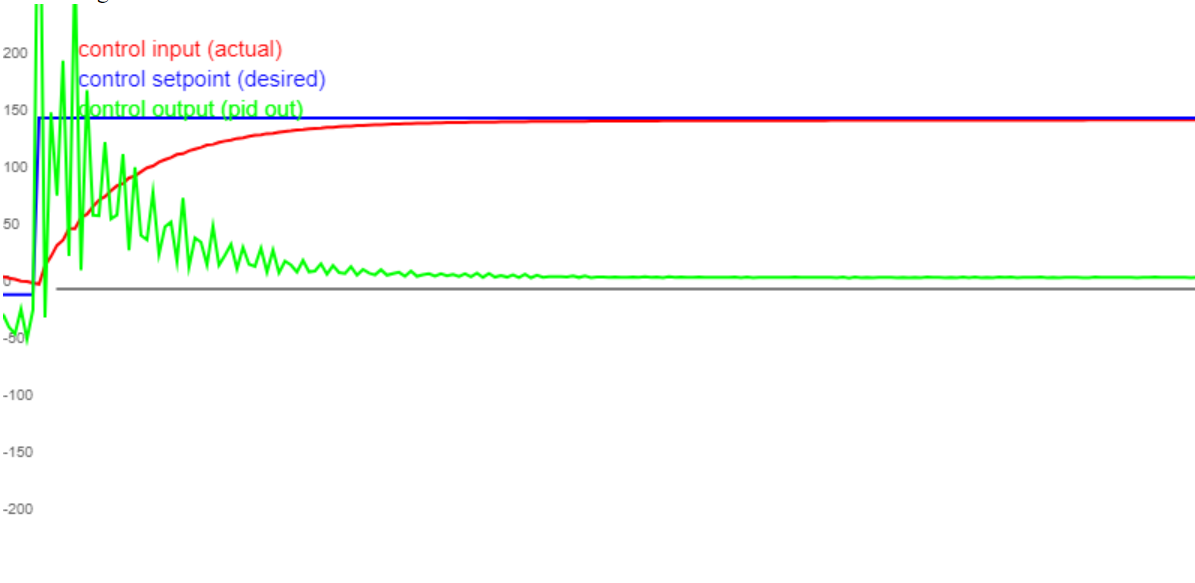
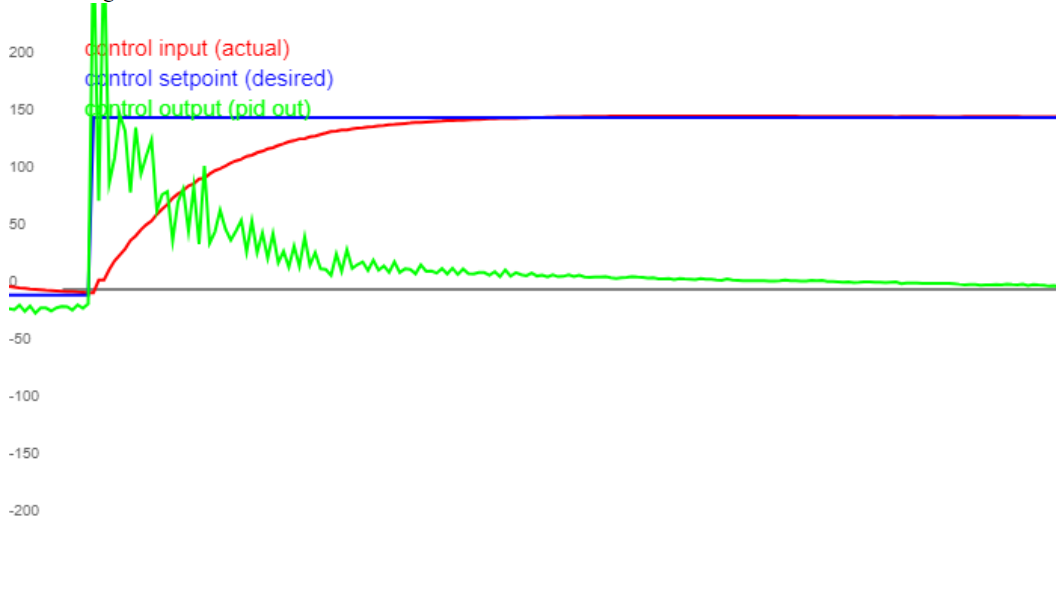
video script done

diff --git a/video_script_pid_lecture.md b/video_script_pid_lecture.md
@@ -30,6 +30,8 @@ The output is how we actuate the system. This is generally our only method of ac
 
 Remember that PID is an algorithm that helps us control the variable we care about with separate actuation, and is used in cases where the only way we can actuate the system doesn't give us way to control the system well.
 
+In this lecture, I'll be using a lot of examples and showing a lot of models, all of these can be found here at [https://pknessness.github.io/pid_sim/pid.html](https://pknessness.github.io/pid_sim/pid.html)
+
 > INCLUDE P EQUATION PLUS A DIAGRAM? A VISUAL? OF SOME SORT IDK ↓
 
 ![](assets/video_panels/card1.png)
@@ -50,7 +52,7 @@ One thing to note is that, it takes time for machines to interpret and execute t
 
 ![](assets/video_panels/pid1.png)
 
-Now, what if we apply 310 power to the motor, and it reached 150. According to the equation, our desired is 150, our actual is 150, and therefore our error is 0 and our output is 0. Fantastic. HOWEVER, what if the system attached to the motor has inertia, and that inertia carries the motor past 150 and all the way to 277, before the force of the motor becomes enough to pull the system to a halt and make it begin moving in the other direction. Now its moving higher, until again it reaches 0 and the output is again 0 and then it goes past AGAIN to 55, and back, and forth, until it slowly stabilizes at 150. Here, you can see EXACTLY that happening.
+Now, what if we apply 310 power to the motor, and it reached 150. According to the equation, our desired is 150, our actual is 150, and therefore our error is 0 and our output is 0. Fantastic. HOWEVER, what if the system attached to the motor has inertia, and that inertia carries the motor past 150 and all the way to 277, before the force of the motor becomes enough to pull the system to a halt and make it begin moving in the other direction. Now its moving higher, until again it reaches 0 and the output is again 0 and then it goes past AGAIN to 55, and back, and forth, until it slowly stabilizes at 150. Here, you can see EXACTLY that happening. This exact model you can see in the pid_lecture_1_basic example in the sim, which you can change using the "Process example" slider.
 
 > SHOW EQUATION ↓
 
@@ -76,21 +78,23 @@ Let's consider a second scenario where there is a high amount of friction on the
 
 I follows the following equation: $u_i(t) = k_i * \int{e(t)dt}$. It grows with the integral of the error OVER TIME, what we're looking at is the area under the curve, so it grows exponentially and often very uncontrollably. Often in this case, we want to add a cap to how large the I component can build to. Now, lets see it in use.
 
+This example is the pid_lecture_2_friction example, which can be accessed in the same way as the first.
+
 > IMAGE4 ↓
 
 ![](assets/video_panels/pid4.png)
 
-Consider now this graph that is the same physical characteristics, now with a 2 1 2 PID. See how this causes overshoot again. We need to seriously reduce the I, and increasing the P and D a bit wouldn't hurt either.
+Consider now this graph that is the same physical characteristics, now with a 2 1 2 PID. See how this causes overshoot again. We need to seriously limit the I, and we can do that using the fourth parameter, the I cap. The I cap is the maximum of the I component of the entire equation, basically limiting how much the I component can build to, and overall how much of an impact it can have on the final output. When using I cap, $k_i$ becomes a parameter of "how fast does the I build", basically becoming a persistent parameter that will decrease continuously (until it reached the I cap) when actual is above desired, and increase continuously (until it reached the I cap) when actual is below desired.
 
 > IMAGE5 ↓
 
 ![](assets/video_panels/pid5.png)
 
-Now we're running a 3 0.1 2.5 PID, on the same setup, and look how we're able to maintain a smooth transition into the end, and it reaches the setpoint. Unfortunately its not perfect, but increasing the I any more will seriously unstabilize the system. In these types of cases, it may be best to look at why there is so much friction in the system and see if that can be dealt with.
+Now we're running a 2 1 2 PID, and with an I cap of 15, on the same setup, and look how we're able to maintain a smooth transition into the end, and it reaches the setpoint.
 
-Another way to deal with this could be to have a feed forward that applies a flat constant in whatever direction of movement to counteract specifically friction. This is not something you'll have to do for
+Another way to deal with this could be to have a feed forward that applies a flat constant in whatever direction of movement to counteract specifically friction. We'll talk more about feed forwards and how we can use knowledge of the system to assist our PID later.
 
-One final scenario where we want to use I is when we want a lot of power at the start, and then a small amount of power to maintain velocity, like a flywheel. Systems like a single motor and a flywheel have a moment of inertia that maintains velocity, and therefore will only need a small amount of power to counteract the energy leaving the system.
+One final scenario where we want to use I is when we want a lot of power at the start, and then a small amount of power to maintain velocity, like a flywheel. Systems like a single motor and a flywheel have a moment of inertia that maintains velocity, and therefore will only need a small amount of power to counteract the energy leaving the system. You're still going to want to regulate the I cap so that the I component is sufficiently regulated.
 
 > FULL EQUATION ↓
 
@@ -108,17 +112,23 @@ And this is the base PID equation, taking into account only feedback that we get
 
 ![](assets/video_panels/turretCard.png)
 
-Let's take into account a theoretical scenario as such. We have a horizontal motor with a rod, and that rod has a non-negligible weight. A force of gravity is pulling down on the rod, and you can see that here.
+Let's consider a theoretical scenario as such. We have a horizontal motor with a rod, and that rod has a non-negligible weight. A force of gravity is pulling down on the rod, and you can see that here as $F_g$.
 
 Now, since the motor is a rotational pivot, we actually only care about the force thats tangent to the motor. Looking at this force diagram, we can say that the amount of force pushing the motor clockwise is $F_T$ or $F_g * cos(\theta)$.
 
-The force is dependent on the angle of the motor, and wait, hold up. We have that. We know the angle of the motor, its the actual. All we need is to find how much "force" of the motor is equivalent to how much actuation of the motor.
+The force is dependent on the angle of the motor, and wait, hold up. We have that. We know the angle of the motor, its data that we can access and we are currently using as the actual. All we need is to find how much "value" of the motor is equivalent to how much actuation of the motor.
 
-To find this, we can set the motor to different values, and see how much it takes to keep it level at fully horizontal. Let say we do some testing, and we apply 40 to the motor and thats how much it takes to stay fully horizontal. We can simply set our feed forward to $40*cos(\theta)$, and with the knowledge that we currently have of the system, we don't have to do any unstable I to counteract gravity, we can use very stable known forces of the system, and then have the rest of the PID act as normal, which will be some P and some D. This is a method we have successfully used in the past to control a motor we have that is exactly like this one.
+To find this, we can set the motor to different values, and see how much it takes to keep it level at fully horizontal. Let say we do some testing, and we apply 40 to the motor and thats how much it takes to stay fully horizontal. We can simply set our feed forward to $40*cos(\theta)$, and with the knowledge that we currently have of the system, we don't have to do any unstable I to counteract gravity, we can use very stable known forces of the system, and then have the rest of the PID act as normal, which will be some P and some D. 
+
+This example is the pid_example_3_imbalanced in the sim, and I highly recommend taking a look at it, and attempting to tune it after removing the feed forward equation.
 
 > CASCADING PID CONCEPT DIAGRAM ↓
 
-There is one final thing to discuss with PID, and that's using multiple PIDs for a single system. Often, we find difficulty in controlling a positional system when our method of actuation is acceleration. This is the case because acceleration is the double derivative of position, and with a lot of uneven forces in the mix, its often very difficult to run control on these. Controlling velocity with acceleration is much MUCH easier, and so is controlling 
+There is one final thing to discuss with PID, and that's using multiple PIDs for a single system. Often, we find difficulty in controlling a positional system when our method of actuation is acceleration. This is the case because acceleration is the double derivative of position, and with a lot of uneven forces in the mix, its often very difficult to run control on these. Controlling velocity with acceleration is much MUCH easier, and so is controlling position with velocity. Inertia is better handled by a accel-controls-velocity PID than with a accel-controls-position PID, and a main reason for this is that inertia stabilizes velocity, and that unfortunately happens to make it more difficult to control position.
+
+That's something we'll talk about briefly in use, and that we plan to slowly incorporate more into the robot.
+
+That's the end of this lecture. If you have any questions please ask your lead, they should be able to clear anything up. This also helps us improve our training program, as we may want to add the answers to your questions in this video in a later iteration. 
 
 # Writer's Notes:
 
